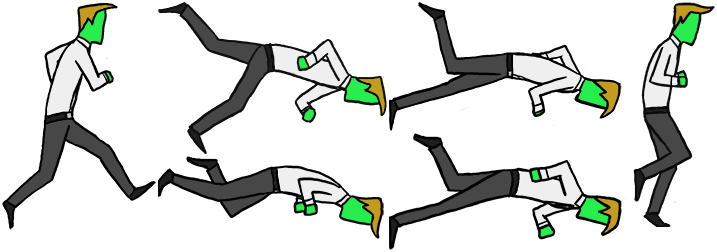
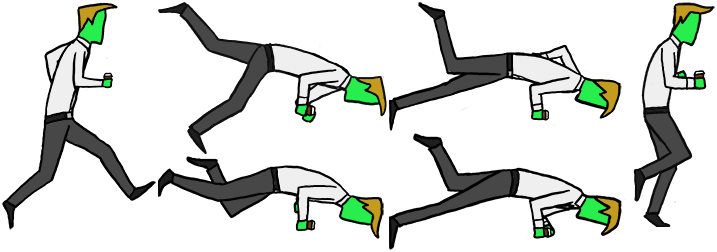
Day 2 player collision with some objects

diff --git a/Promotion/src/day2.js b/Promotion/src/day2.js
@@ -5,6 +5,8 @@ var initialGroundHeight = 50;
 //player start position
 var playerStartX = 100;
 var gameSpeed = 700;
+//game length in seconds
+var gameTime = 120;
 
 //jumping enum
 if(typeof RunnerStat == "undefined") {
@@ -27,7 +29,7 @@ function Day2Player (space, groundHeight){
 		animFrames.push(frame);
 	}
 
-	var animation = cc.Animation.create(animFrames, 0.05);
+	var animation = cc.Animation.create(animFrames, 0.06);
 	this.runningAction = cc.RepeatForever.create(cc.Animate.create(animation));
 	this.sprite = new cc.PhysicsSprite("#D2_run_f1.png");
 	this.sprite.runAction(this.runningAction);
@@ -97,6 +99,7 @@ var Day2Layer = cc.Layer.extend({
 	player: null,
 	keyIsPressed: false,
 	state: RunnerStat.running,
+	obstacle_array: [],
 	ctor: function(space){
 		this._super();
 		this.space = space;
@@ -104,6 +107,7 @@ var Day2Layer = cc.Layer.extend({
 		var size = cc.winSize;
 		this.scheduleUpdate();
 		this.addChild(this.player.sprite);
+		this.populate_obstacles();
 		//if space was pressed
  		var listener = cc.EventListener.create({
 			event: cc.EventListener.KEYBOARD,
@@ -129,7 +133,7 @@ var Day2Layer = cc.Layer.extend({
 
 	jump: function(){
 		if (this.state == RunnerStat.running){
-		 	this.player.body.applyImpulse(cp.v(0,700), cp.v(0,0));
+		 	this.player.body.applyImpulse(cp.v(0,1800), cp.v(0,0));
 		 	this.state = RunnerStat.jumpUp;
 		}
 	},
@@ -147,10 +151,63 @@ var Day2Layer = cc.Layer.extend({
             }
         }
         else if (this.state == RunnerStat.jumpDown) {
-            if (vel.y < 10 && vel.y > -10) {
+            if (vel.y < 20 && vel.y > -20) {
                 this.state = RunnerStat.running;
             }
         }
+	},
+
+	//preload the randomly generated obstacles
+	populate_obstacles: function(){
+		var cabinet = res.filingcabinet_png;
+		var trash = res.trash_png;
+
+		//odds that an object will spawn in that location
+		var spawnChance = .5;
+
+		//odds that two objects spawn next to each other
+		var adjChance = .1
+		
+
+		//width of whole level
+		var gameWidth = gameSpeed*gameTime
+
+		var tempCab = new cc.Sprite(res.filingcabinet_png);
+		var tempTrash = new cc.Sprite(res.trash_png);
+
+		var cabWidth = tempCab.getContentSize().width;
+		var trashWidth = tempTrash.getContentSize().width;
+
+		//used to iterate over the span of the level
+		var iter = cc.winSize.width;
+		for (; iter < gameWidth; iter += Math.max(cabWidth, trashWidth) * 8){
+			var result = Math.random();
+			if (result <= spawnChance){
+				//if result is less than half the spawn chance,
+				//spawn a cabinet
+				if (result > spawnChance / 2){
+					var newObs = new Obstacle(res.filingcabinet_png,
+						this.space, iter,tempCab.getContentSize().height/2);
+					this.addChild(newObs);
+					this.obstacle_array.push(newObs);
+					console.log("CABINET");
+				}
+				//otherwise, make a trash can
+				else if (result < spawnChance / 2){
+					var newObs = new Obstacle(res.trash,
+						this.space, iter,tempTrash.getContentSize().height/2);
+					this.addChild(newObs);
+					this.obstacle_array.push(newObs);
+					console.log("TRASH");
+				}
+				
+			}
+			spawnChance += .01;
+		}
+
+
+
+
 	}
 	
 });
@@ -158,7 +215,9 @@ var Day2Layer = cc.Layer.extend({
 var Day2Scene = cc.Scene.extend({
 	space: null,
 	groundHeight: initialGroundHeight,
-	groundWidth: 1000000,
+
+	//make ground minimum length to complete game in time allotted
+	groundWidth: gameSpeed*gameTime,
 	layer: null,
 	bgLayer: null,
 
@@ -176,7 +235,7 @@ var Day2Scene = cc.Scene.extend({
 	initPhysics: function(){
 
 		this.space = new cp.Space();
-		this.space.gravity = cp.v(0,-2000);
+		this.space.gravity = cp.v(0,-7000);
 		this.setGroundHeight();
 	},
 
@@ -200,6 +259,11 @@ var Day2Scene = cc.Scene.extend({
 		//reposition the backgrounds
 		if (this.bgLayer.getPositionX() < 
 			(1+this.numTimesBgScrolledOffscreen)*-this.bgLayer.map0.width){
+
+			/* make the visible map map0
+				and the one that just left map1,
+				and put map1 back behind map0.
+			*/
 			var tempMap = this.bgLayer.map0;
 			this.bgLayer.map0 = this.bgLayer.map1;
 			this.bgLayer.map1 = tempMap;

diff --git a/Promotion/src/obstacle.js b/Promotion/src/obstacle.js
@@ -1,0 +1,28 @@
+var Obstacle = cc.Node.extend({
+	space: null,
+	sprite: null,
+	shape: null,
+
+	ctor: function(image, space, posX, posY){
+		this._super();
+		this.space = space;
+		this.sprite = cc.PhysicsSprite.create(image);
+		var body = new cp.StaticBody();
+		body.setPos(cc.p(posX, posY));
+		this.sprite.setBody(body);
+		this.addChild(this.sprite);
+
+		var contentSize = this.sprite.getContentSize();
+		this.shape = new cp.BoxShape(body, contentSize.width, contentSize.height);
+		this.shape.setCollisionType(SpriteTag.obstacle);
+		this.scheduleUpdate();
+		this.space.addStaticShape(this.shape);
+
+	},
+
+	update: function(dt){
+
+	}
+
+
+});

diff --git a/Promotion/src/resource.js b/Promotion/src/resource.js
@@ -25,6 +25,9 @@ var res = {
     day2bg_png: "res/images/Day2/day2bg.png",
     D2_run_png: "res/images/Day2/D2_run.png",
     D2_run_plist: "res/images/Day2/D2_run.plist",
+    filingcabinet_png: "res/images/Day2/filingcabinet.png",
+    desk_png: "res/images/Day2/desk.png",
+    trash_png: "res/images/Day2/trash.png",
     
     // Day 3
     D3_bg_png: "res/images/Day3/D3_DaBoss_st.png"
@@ -52,6 +55,8 @@ var g_resources = [
     res.D2_run_f1_png,
     res.D2_run_png,
     res.D2_run_plist,
+    res.filingcabinet_png,
+    res.desk_png,
+    res.trash_png,
     res.D3_bg_png
 ];
-

diff --git a/Promotion/src/night_Animation_Layer.js b/Promotion/src/night_Animation_Layer.js
@@ -141,7 +141,6 @@ var AnimationLayer = cc.Layer.extend({
                 this.sprite.runAction(this.runningAction);
             }
         }
-        console.log(vel.y);
 
     },
     
